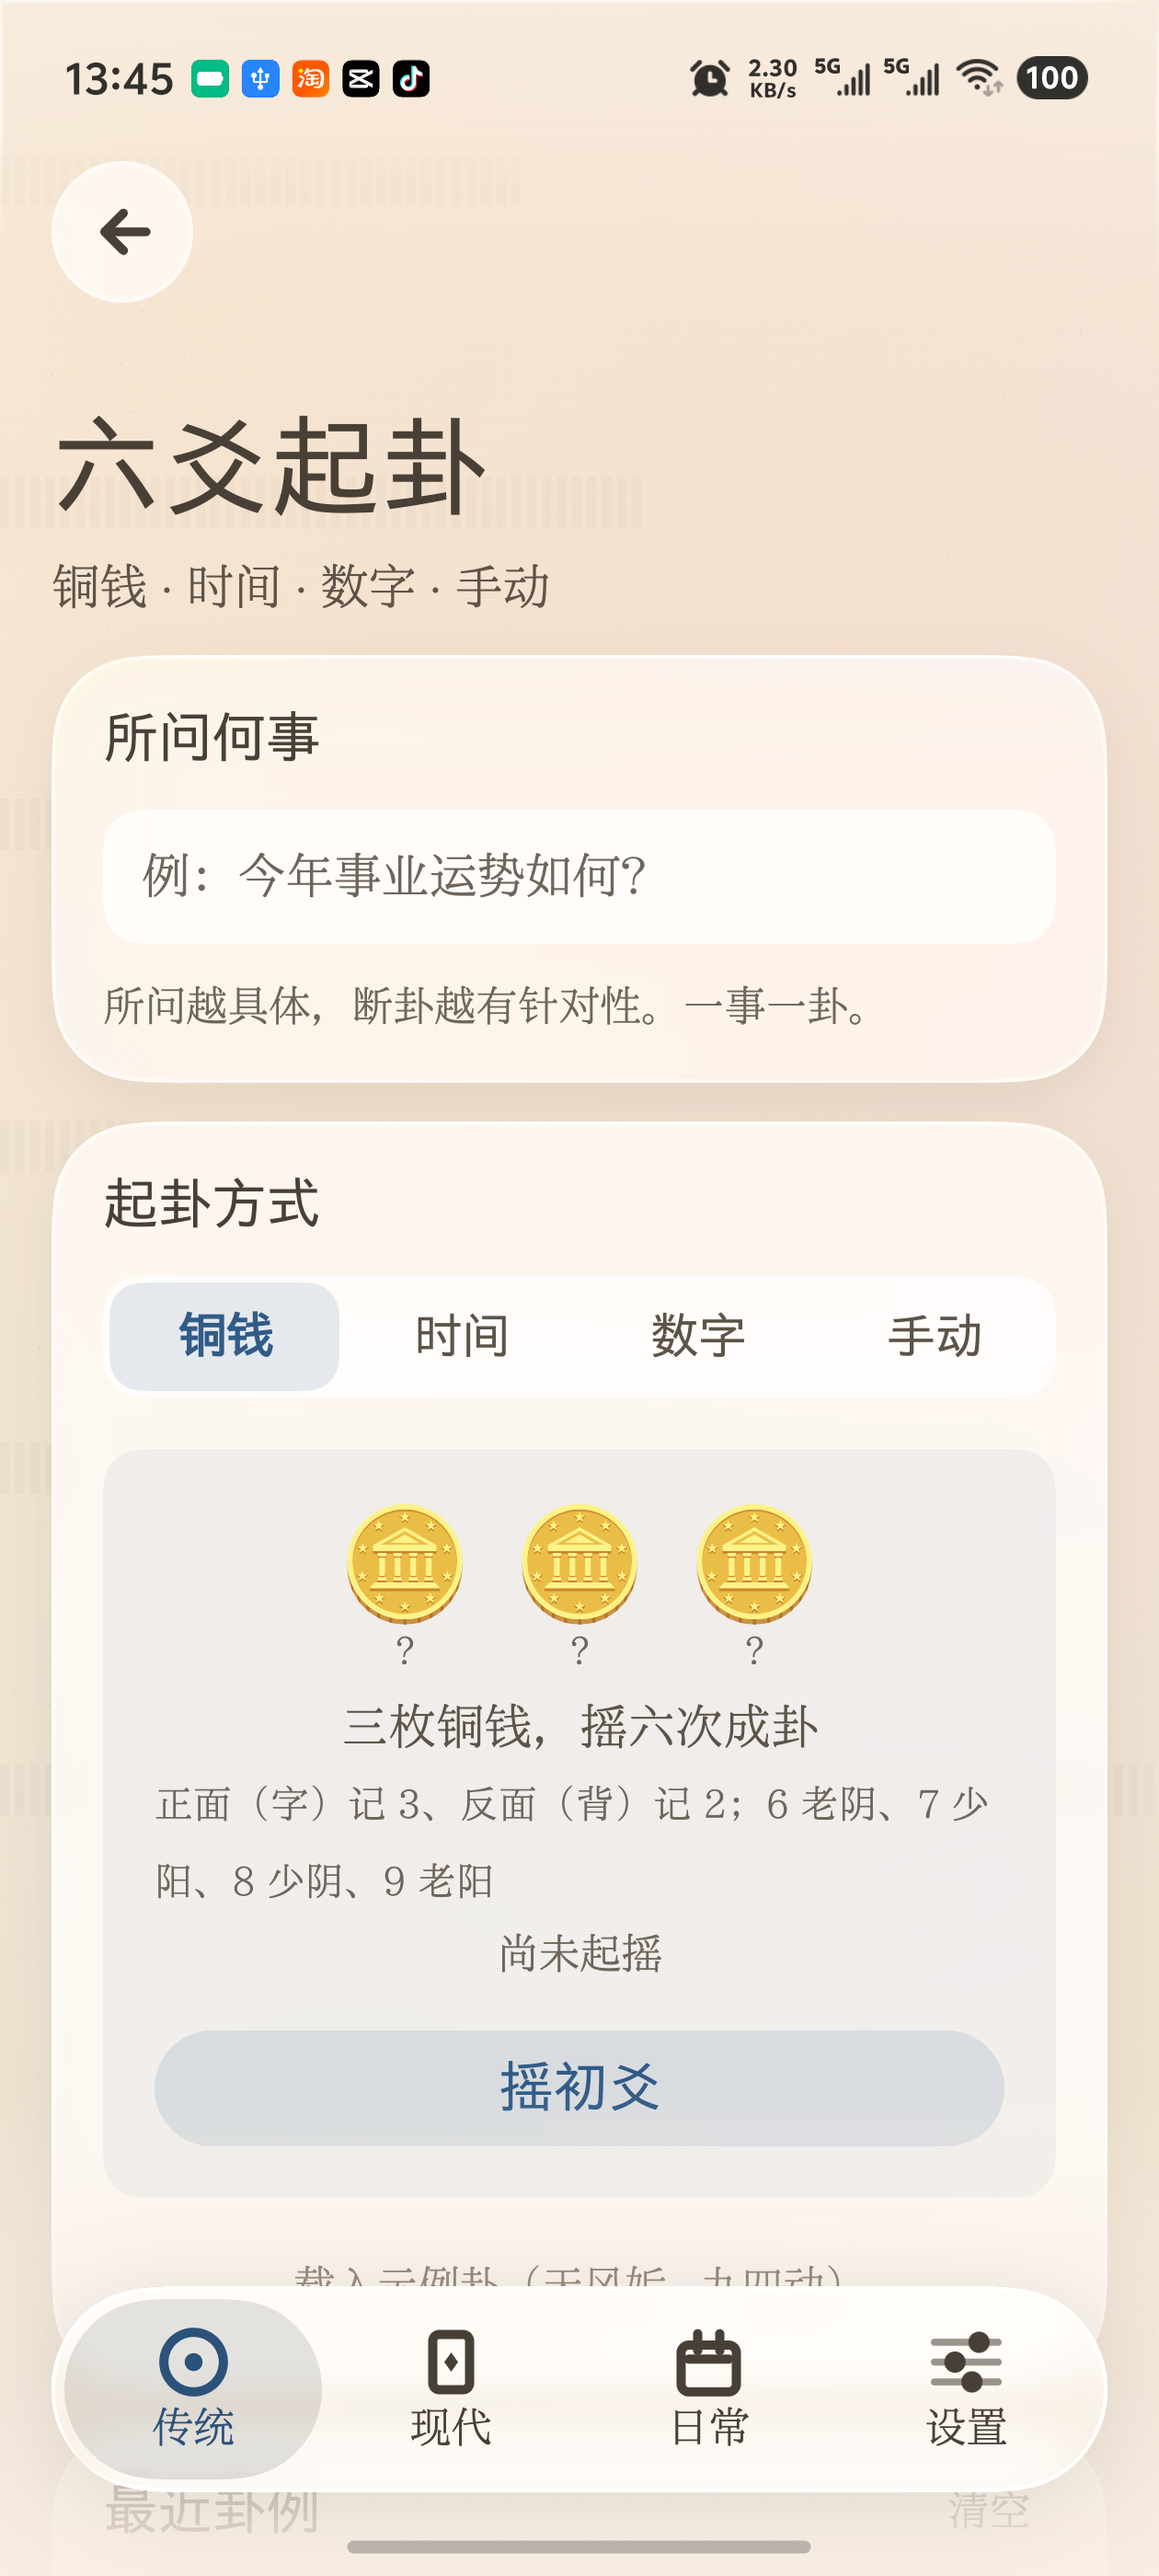
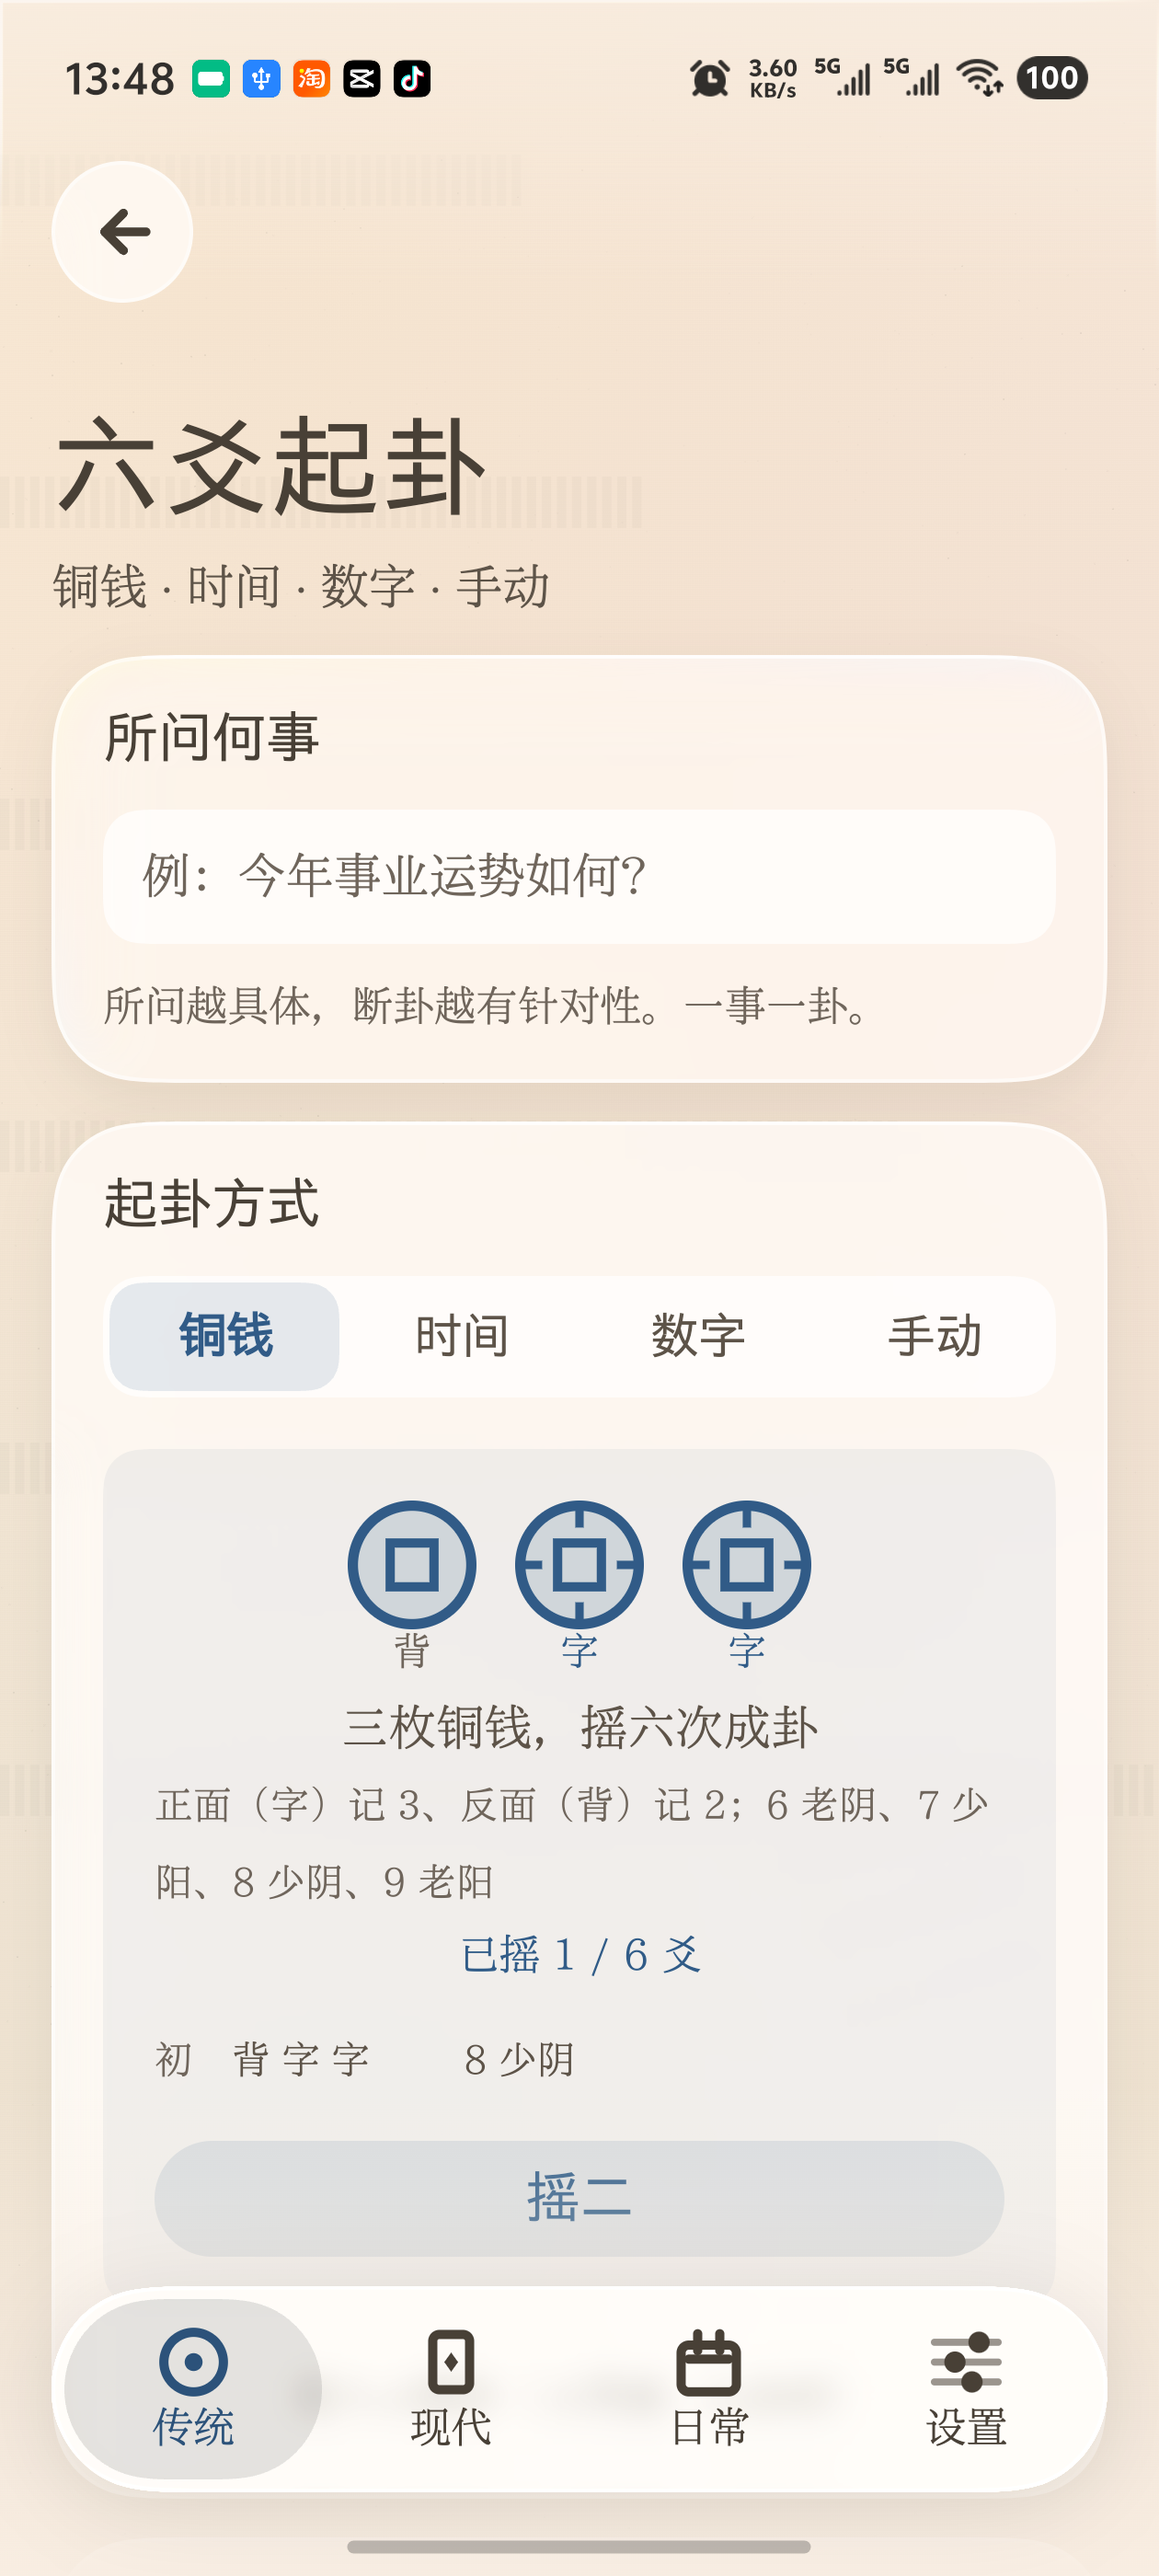
fix(liuyao): 铜钱改画方孔钱，正反可分
用户指出「这也分不出正反」—— 🪙 emoji 正反一模一样，
只有底下小字不同，等于没有视觉区分。

改成 Canvas 画方孔铜钱，照真实铜钱的区别方式：
- 外圆：淡金填充 + 金色描边
- 方孔：居中
- **字面：方孔四周四道短纹**（模拟「某某通宝」四字位）
- **背面：光素留白**

正反一眼可分，不依赖底下的小字。

顺带修按钮文案：「摇二」→「摇二爻」（少了「爻」字）。

### 踩坑：Git 文件名大小写冲突
报错 `Conflicting overloads: fun LiuyaoScreen(...)`，但源码里只有一处声明。
原因：git 索引里是 `LiuyaoScreen.kt`（小写 s），工作区是 `LiuYaoScreen.kt`，
Windows 大小写不敏感 → 增量编译把两份当成同一个声明的两次定义。
`./gradlew :feature:liuyao:clean` 后正常。

**这类问题编译期报错信息完全误导**（说重载冲突，其实只有一个声明）。
以后遇到「只有一个声明却说冲突」，先 clean 再想别的。

真机验证：三枚方孔钱渲染正常，字面有纹/背面光素清晰可分，零崩溃。

diff --git a/feature/liuyao/src/main/java/com/maohongyuan/magic/feature/liuyao/LiuyaoScreen.kt b/feature/liuyao/src/main/java/com/maohongyuan/magic/feature/liuyao/LiuyaoScreen.kt
@@ -16,6 +16,7 @@ import androidx.compose.foundation.layout.width
 import androidx.compose.foundation.text.BasicTextField
 import androidx.compose.material3.Text
 import androidx.compose.runtime.Composable
+import androidx.compose.ui.graphics.drawscope.Stroke
 import kotlin.math.cos
 import kotlin.math.abs
 import androidx.compose.ui.draw.clip
@@ -278,15 +279,58 @@ private fun CoinFace(angle: Float, isZi: Boolean, thrown: Boolean, tint: Color, 
     val frontSide = (angle / 180f).toInt() % 2 == 0
     val showingZi = if (frontSide) isZi else !isZi
 
-    // 用 🪙 而不是自己画圆：手绘的圆形加边框太像按钮，不像铜钱。
-    // 翻转只作用在 emoji 上（scaleX 压扁），字/背标签放在下面不参与翻转 ——
-    // 标签一起翻的话，转过去就是镜像字，反而看不清。
+    // 方孔铜钱，Canvas 画。
+    //
+    // 为什么不用 🪙：emoji 正反一模一样，只有底下小字不同 —— 分不出正反。
+    // 真实铜钱的区别方式就是「字面有纹、背面光素」，这里照这个来：
+    // 字面在方孔四周画四道短纹（四字位），背面留白。
     Column(horizontalAlignment = Alignment.CenterHorizontally) {
-        Text(
-            text = "🪙",
-            fontSize = 34.sp,
-            modifier = Modifier.graphicsLayer { scaleX = squash },
-        )
+        val coinColor = if (thrown) tint else colors.tertiaryText
+        Canvas(
+            modifier = Modifier
+                .size(40.dp)
+                .graphicsLayer { scaleX = squash },
+        ) {
+            val r = size.minDimension / 2f
+            val c = Offset(size.width / 2f, size.height / 2f)
+            val ring = r * 0.16f
+
+            // 外圆：淡金填充 + 金色描边
+            drawCircle(color = coinColor.copy(alpha = 0.16f), radius = r - ring / 2f, center = c)
+            drawCircle(
+                color = coinColor,
+                radius = r - ring / 2f,
+                center = c,
+                style = Stroke(width = ring),
+            )
+            // 方孔
+            val hole = r * 0.34f
+            drawRect(
+                color = coinColor,
+                topLeft = Offset(c.x - hole, c.y - hole),
+                size = Size(hole * 2, hole * 2),
+                style = Stroke(width = ring * 0.9f),
+            )
+            // 字面：方孔四周四道短纹（模拟「某某通宝」四字）
+            if (thrown && showingZi) {
+                val barLen = r * 0.30f
+                val barW = r * 0.13f
+                val gap = hole + ring * 1.5f
+                listOf(
+                    Offset(c.x - barW / 2, c.y - gap - barLen),
+                    Offset(c.x - barW / 2, c.y + gap),
+                    Offset(c.x - gap - barLen, c.y - barW / 2),
+                    Offset(c.x + gap, c.y - barW / 2),
+                ).forEachIndexed { i, topLeft ->
+                    val vertical = i < 2
+                    drawRect(
+                        color = coinColor,
+                        topLeft = topLeft,
+                        size = if (vertical) Size(barW, barLen) else Size(barLen, barW),
+                    )
+                }
+            }
+        }
         Text(
             text = when {
                 !thrown -> "?"
@@ -393,7 +437,7 @@ private fun CoinPanel(throws: List<CoinThrow>, onCast: () -> Unit) {
                 text = when {
                     throws.size >= 6 -> "六爻已齐"
                     throws.isEmpty() -> "摇初爻"
-                    else -> "摇${YaoPosition.of(throws.size).ordinalLabel}"
+                    else -> "摇${YaoPosition.of(throws.size).ordinalLabel}爻"
                 },
                 fontSize = MagicType.body.sp,
                 fontWeight = FontWeight.SemiBold,
